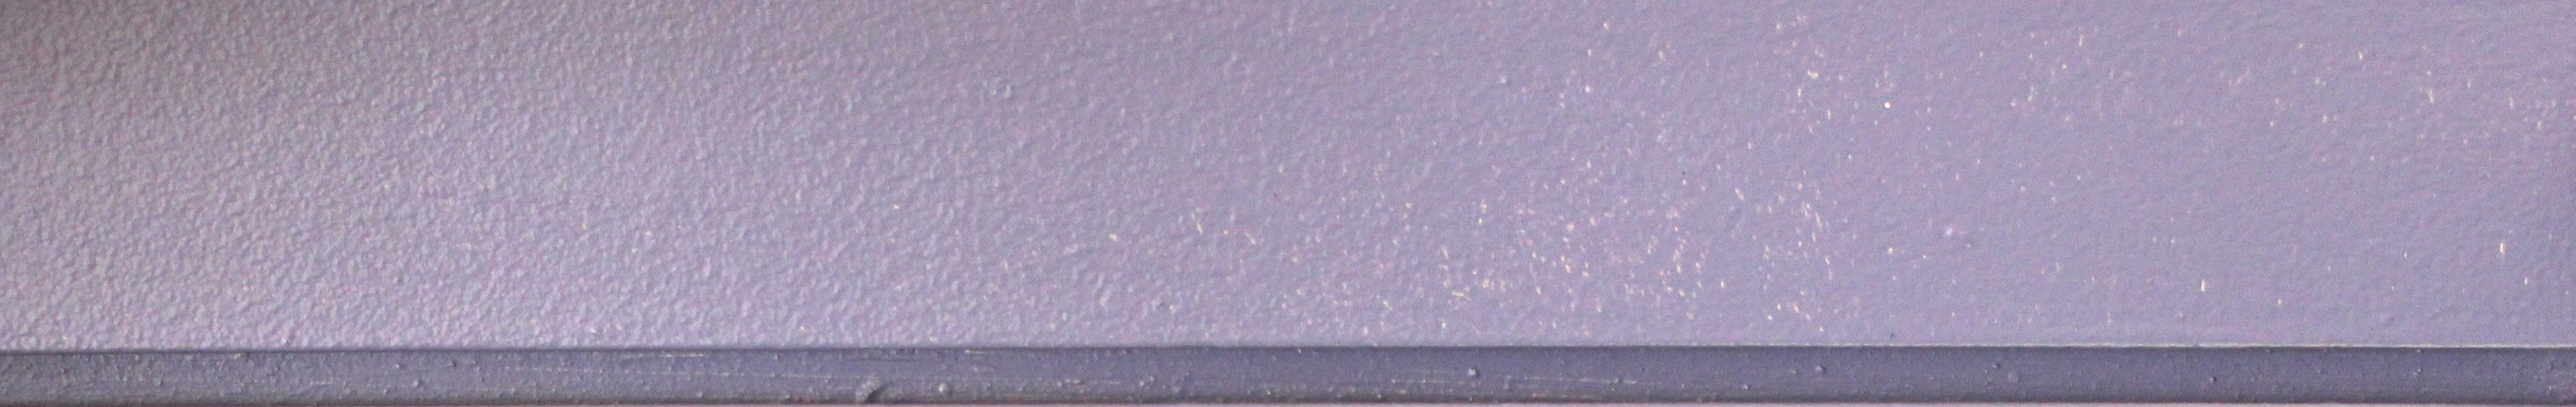
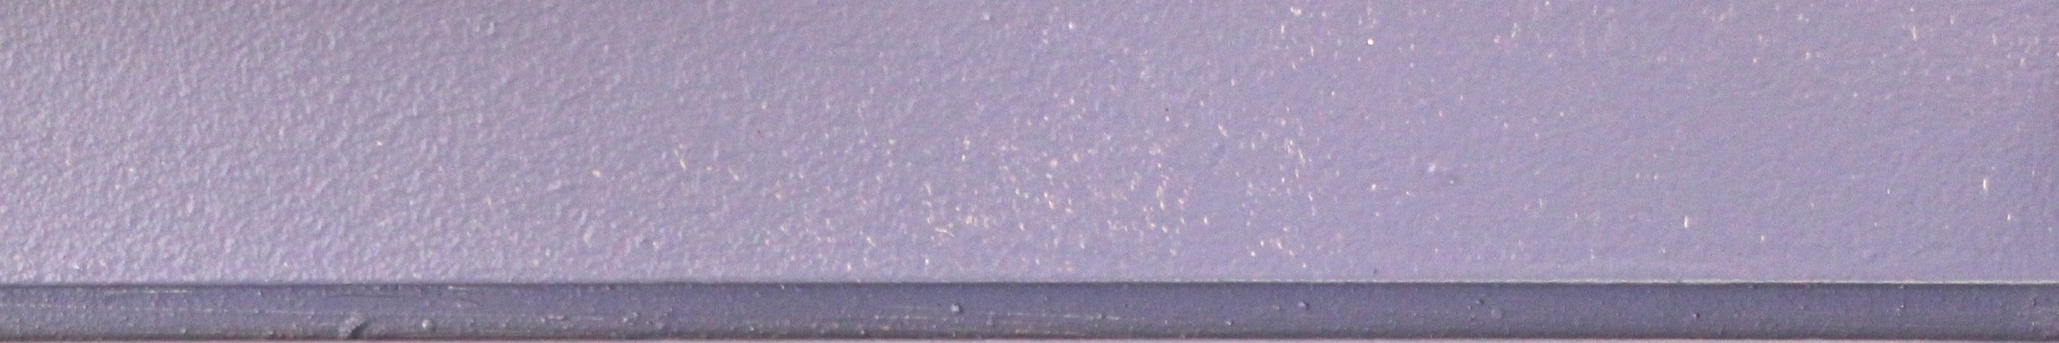
ho

diff --git a/Stylesheets/main2.css b/Stylesheets/main2.css
@@ -1,6 +1,6 @@
 body {
-        background: url(purple2copy.JPG) no-repeat;
-	background-color: #FFFFC3;
+        background: url(Samle2.JPG) no-repeat;
+	background-color: #E0E0F8;
 	background-size: 1280px;
         font-family: sans-serif;
         font-size: 13px;
@@ -15,8 +15,7 @@ body {
 
 
 .container2 {
-	width: 900px;
-        margin: 0 0 0 185px;  
+        margin: 0 0 0 0;  
         padding: 0 0 0 10px;
         overflow: ;
 }
@@ -72,7 +71,10 @@ body {
 
 .menu {
 	font-size: 20px;
-	margin: 95px 0 0 125px;
+	margin: 70px 0 0 320px;
+	padding: 0;
+
+	height: 1em;
 	
 }
 
@@ -80,33 +82,85 @@ body {
 li {
 	padding-top: 20px;
 	text-align: center;
-	list-style: none;
 	display: inline;
+
 
 }
 
 .menu li a {
 	text-decoration: none;
 	color: #000000;
-	padding: 0 30px 0 30px;
 	font-family: fantasy;
+	display: block;
+	padding: 4px 60px 3px 15px;
+	text-align: center;
+
 }
 
 .menu li a:hover {
 	color: #ffffff;
 
 }
+.menu a:hover{
+        color:#ffffff
+}
 
 .menu li a.selected {
 	color: #ffffff;
 }
+
+.menu li ul {
+	margin: 0;
+	padding: 0;
+	list-style: none;
+	display: none; 
+	width: 6em; /* Width to help Opera out */
+	font-size: 14px;
+	float: left;
+}
+
+
+.menu li {
+	list-style: none;
+	float: left;
+        }
+        
+
+
+.menu li:hover ul {
+	display: block;
+	position: absolute;
+	margin: 0 0 0 8px;
+	padding: 0;
+	
+        }
+	
+.menu li:hover li {
+	float: none;
+        
+        }
+	
+.menu li:hover li a {
+	background-color:#ffffff;
+	color: #000000;
+
+        }
+	
+.menu li li a.selected {
+       background-color: #ffffff;
+
+} 
+.menu li li a:hover {
+	background-color: #dedede;
+        }
+
 
 .content{
 	
 }
  
 .pics {
-	margin: 40px 0 0 445px
+	margin: 40px 0 0 760px
 }
 
 .pics img {
@@ -127,6 +181,31 @@ li {
 	float:right	
 }
 
+.frame {
+	margin: 30px 0 0 0;
+}
+.frame img{
+	display: block;
+	 margin-left: auto;
+    margin-right: auto
+}
+
+h1 {
+	color: #000000;
+	font-family: fantasy;
+	text-align: center;
+}
+
+.container2 h1 {
+	margin: 100px 0 0 0
+}
+
+
+.footer {
+	text-align: center;
+	color: #000000;
+	position: relative
+}
 
 
 

diff --git a/drinks.html b/drinks.html
@@ -42,18 +42,19 @@
         </div>
         
         
-      <div class="menu">
+       <div class="menu">
+        <ul id="submenu">
             
           <li>
-            <a class="selected" href="home2.html">Home </a></li>
+            <a href="home2.html">Home </a></li>
           <li>
-            <a href="foodMenu.html">Menus</a>
+            <a class="selected" href="foodMenu.html">Menus</a>
             <ul> 
                 <li>
                     <a href="foodMenu.html">Food</a>
                 </li> 
                 <li>
-                    <a href="drinks.html">Drinks</a>
+                    <a href="#">Drinks</a>
                 </li> 
             </ul>
           </li>
@@ -61,40 +62,21 @@
           <li><a href="#">Gallery</a></li>
           <li><a href="#">Contact us</a></li>
       </div>
-      
-      <div class="content">
-        <h1> About us</h1>
-        
-           
-        <div class="pics">
-             <img src="images/purpleporn3.jpg">
+     </div> <!-- end container -->
+    
+    
+    <div class="container2">
+        <h1> Drink Menu </h1>
+        <div class="frame">
+            <img src="Images/tavlen1.png">
         </div>
-        <!-- <div class="side">
-            <img src="images/gclef.png">
-        </div>-->
-        
-        <div class="fr">
-            <ul class="pagination"
-                <li class="active">
-                    <a href="#"></a>
-                </li>
-                <li class>
-                    <a href="#"></a>
-                </li>
-                <li class>
-                    <a href="#"></a>
-                </li>
-            </ul>
-        </div>
-                    
-      
+    </div>
+  
   
      <div class="footer">
-       
-        
 
     </div>
-     </div> <!-- end container -->
+     </div>
 
 
 

diff --git a/foodMenu.html b/foodMenu.html
@@ -42,20 +42,38 @@
         </div>
         
         
-      <div class="menu">
-        <ul>
-          <li><a href="home2.html">Home </a></li>
-          <li><a class="selected" href="foodMenu.html">Menus</a></li>
+       <div class="menu">
+            
+          <li>
+            <a href="home2.html">Home </a></li>
+          <li>
+            <a class="selected" href="foodMenu.html">Menus</a>
+            <ul> 
+                <li>
+                    <a href="foodMenu.html">Food</a>
+                </li> 
+                <li>
+                    <a href="#">Drinks</a>
+                </li> 
+            </ul>
+          </li>
           <li><a href="#">Events</a></li>
           <li><a href="#">Gallery</a></li>
           <li><a href="#">Contact us</a></li>
-        </ul>
-        
       </div>
      </div> <!-- end container -->
+    
+    
+    <div class="container2">
+        <h1> Food menu </h1>
+        <div class="frame">
+            <img src="Images/tavlen1.png">
+        </div>
+
+  
   
      <div class="footer">
-
+         <p>&copy;2012 Javanican. All rights reserved.		Contact</p>
     </div>
      </div>
 
